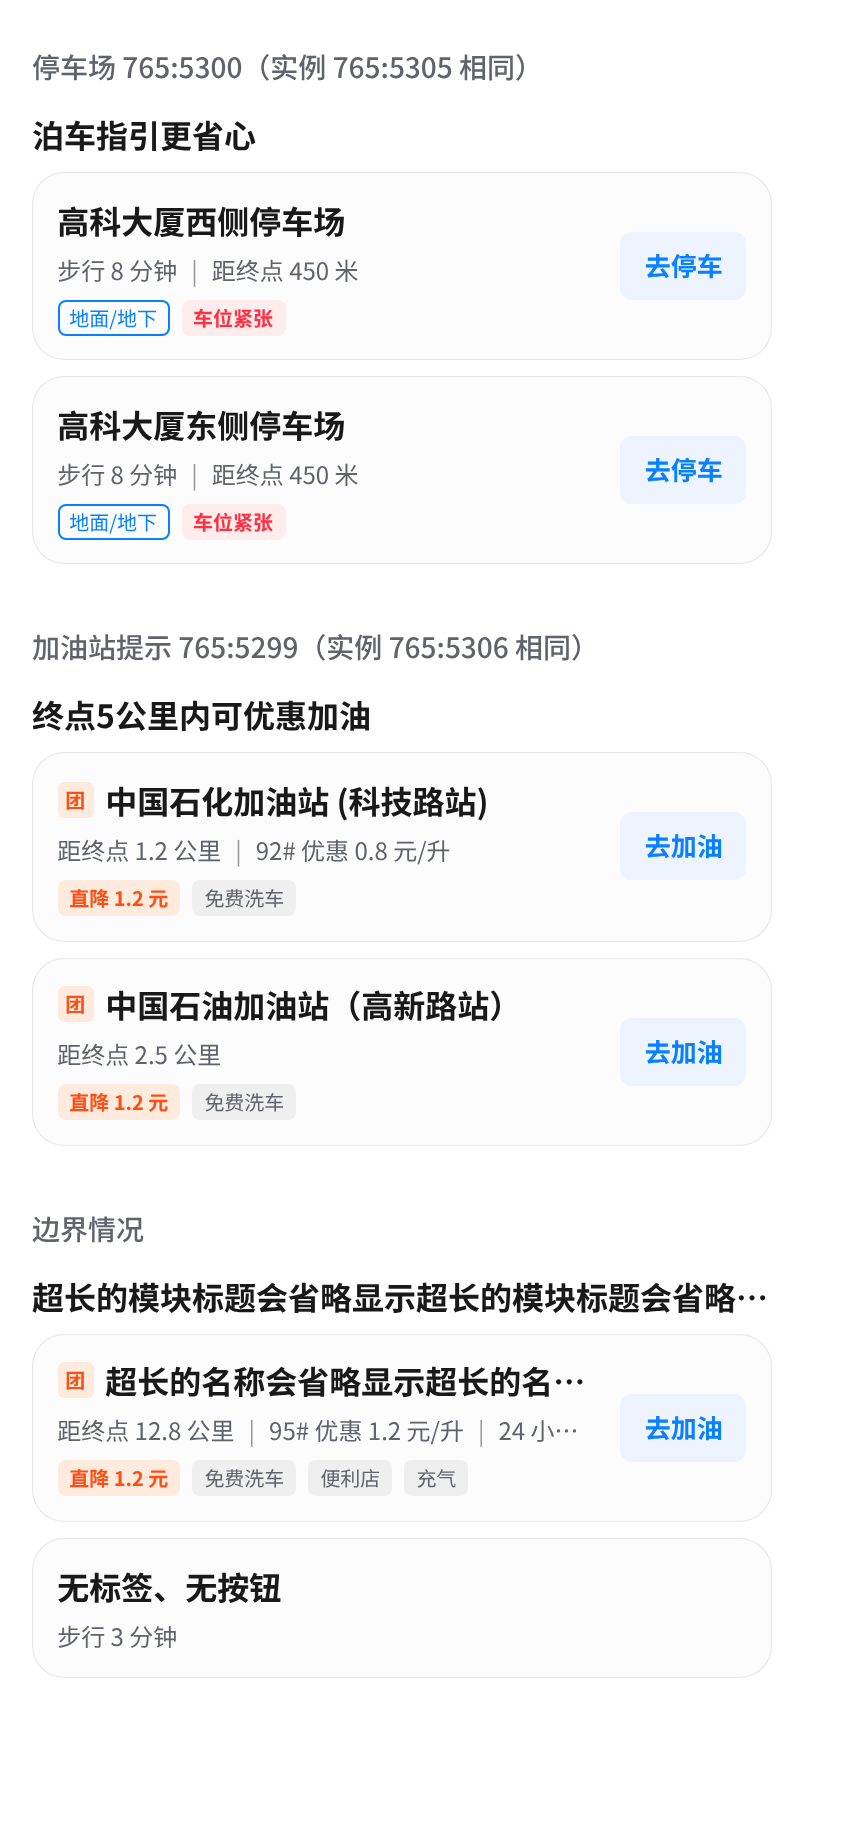
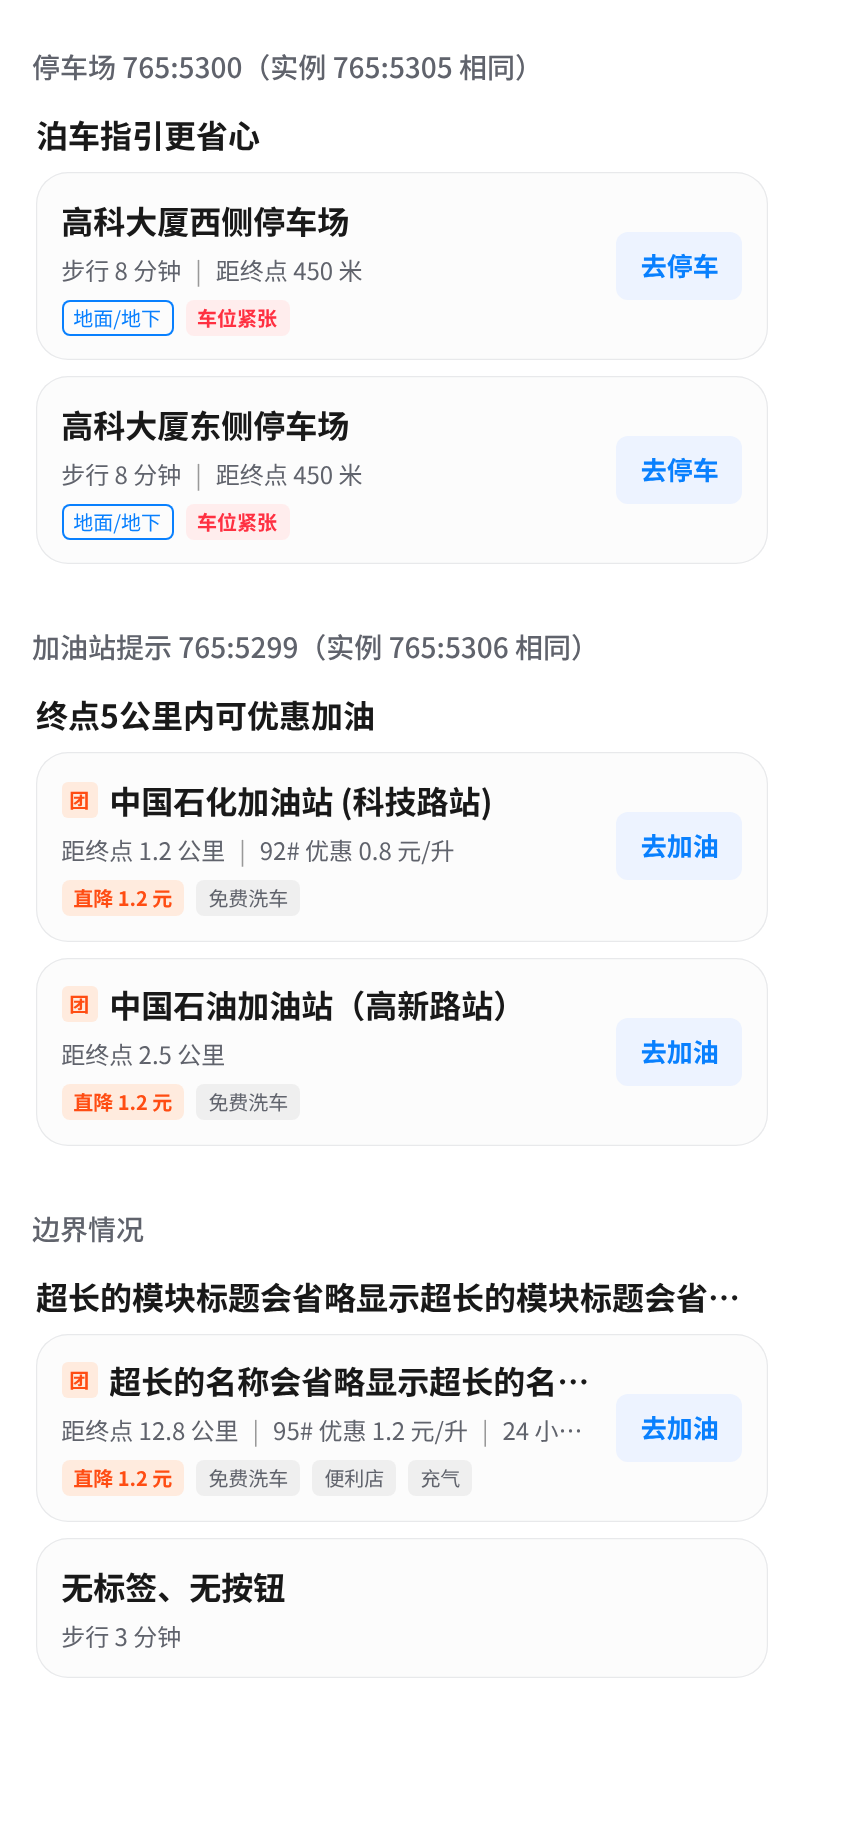
style(section): 页面左右边距全页统一为 18
停车场 / 加油站模块由 16 改为 18，服务卡随之为 366 宽。

Claude-Session: https://claude.ai/code/session_01HmosH7j6FmjJ8BokUZHb64

diff --git a/preview/service-card.html b/preview/service-card.html
@@ -17,7 +17,7 @@
 </head>
 <body asset-base="../assets/">
   <p class="label">停车场 765:5300（实例 765:5305 相同）</p>
-  <amap-section heading="泊车指引更省心" style="--section-inset: 16px">
+  <amap-section heading="泊车指引更省心">
     <amap-service-card name="高科大厦西侧停车场" meta='["步行 8 分钟","距终点 450 米"]'
       tags='[{"text":"地面/地下","tone":"outline"},{"text":"车位紧张","tone":"danger"}]' action-label="去停车"></amap-service-card>
     <amap-service-card name="高科大厦东侧停车场" meta='["步行 8 分钟","距终点 450 米"]'
@@ -25,7 +25,7 @@
   </amap-section>
 
   <p class="label">加油站提示 765:5299（实例 765:5306 相同）</p>
-  <amap-section heading="终点5公里内可优惠加油" style="--section-inset: 16px">
+  <amap-section heading="终点5公里内可优惠加油">
     <amap-service-card badge="团" name="中国石化加油站 (科技路站)" meta='["距终点 1.2 公里","92# 优惠 0.8 元/升"]'
       tags='[{"text":"直降 1.2 元","tone":"deal"},{"text":"免费洗车","tone":"neutral"}]' action-label="去加油"></amap-service-card>
     <amap-service-card badge="团" name="中国石油加油站（高新路站）" meta='["距终点 2.5 公里"]'
@@ -33,7 +33,7 @@
   </amap-section>
 
   <p class="label">边界情况</p>
-  <amap-section heading="超长的模块标题会省略显示超长的模块标题会省略显示" style="--section-inset: 16px">
+  <amap-section heading="超长的模块标题会省略显示超长的模块标题会省略显示">
     <amap-service-card badge="团" name="超长的名称会省略显示超长的名称会省略显示超长的名称" meta='["距终点 12.8 公里","95# 优惠 1.2 元/升","24 小时营业"]'
       tags='[{"text":"直降 1.2 元","tone":"deal"},{"text":"免费洗车","tone":"neutral"},{"text":"便利店","tone":"neutral"},{"text":"充气","tone":"neutral"}]' action-label="去加油"></amap-service-card>
     <amap-service-card name="无标签、无按钮" meta='["步行 3 分钟"]'></amap-service-card>

diff --git a/components/section/section.css b/components/section/section.css
@@ -3,7 +3,7 @@
  */
 amap-section {
   /* 组件变量，可覆盖 */
-  --section-inset: 18px;          /* 左右内边距（多数模块为 18；停车场 / 加油站稿中为 16，待统一） */
+  --section-inset: 18px;          /* 页面左右边距，全页统一 18（已确认） */
   --section-gap: var(--ds-space-8);  /* 标题与内容、内容各项之间 */
 
   display: block;

diff --git a/README.md b/README.md
@@ -295,8 +295,8 @@ assets/      从 Figma 导出的素材
 
 两个 component 结构相同：模块标题 + 两张服务卡。拆成两个组件：
 
-- `<amap-section heading [more-label] [layout=scroll]>`：通用模块容器，标题 16 Semibold，可带右侧「查看更多 >」（派发 `section-more`），左右内边距 `--section-inset`（默认 18；停车场 / 加油站稿中为 16，预览按 16），标题与内容、内容之间间距 8。子元素即内容。后续拼页面时所有模块都用它。
-- `<amap-service-card>`：370 宽，左侧名称 / 说明行 / 标签，右侧浅底按钮。
+- `<amap-section heading [more-label] [layout=scroll]>`：通用模块容器，标题 16 Semibold，可带右侧「查看更多 >」（派发 `section-more`），左右内边距 `--section-inset`（全页统一 18，已确认；停车场 / 加油站原稿的 16 已改为 18），标题与内容、内容之间间距 8。子元素即内容。后续拼页面时所有模块都用它。
+- `<amap-service-card>`：随容器撑满（统一边距后为 366 宽，原稿 370），左侧名称 / 说明行 / 标签，右侧浅底按钮。
 
 ```html
 <link rel="stylesheet" href="components/section/section.css">
